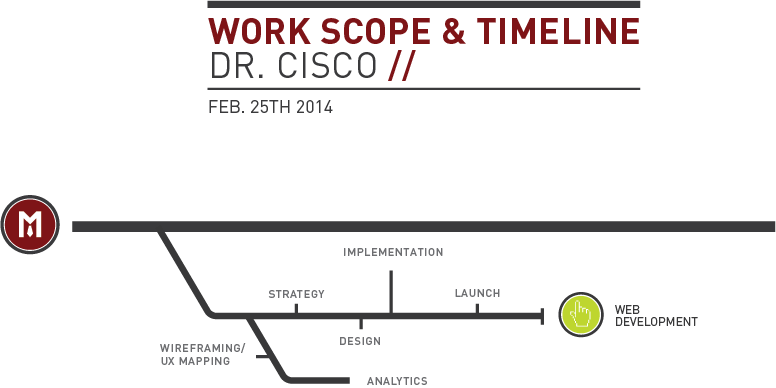
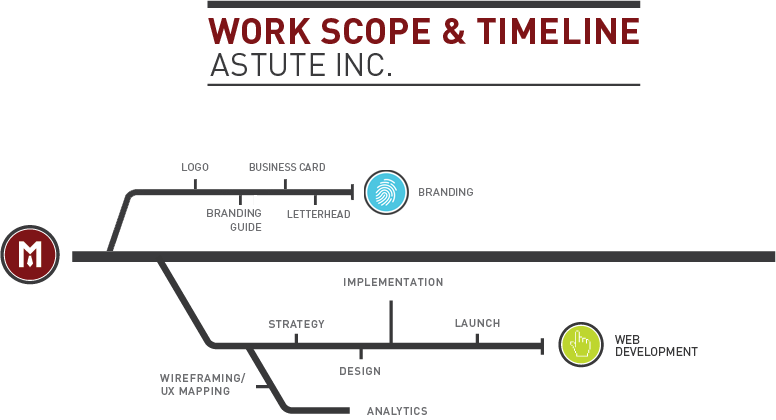
Added Cover Page

diff --git a/ProposalGen2.0/style.css b/ProposalGen2.0/style.css
@@ -94,6 +94,10 @@ thead {
 	font-size:22px;
 }
 
+tr td:last-of-type {
+	text-align: right;
+}
+
 td {
 	padding:10px;
 	font-size:14px;
@@ -300,7 +304,7 @@ nav ul li {
 }
 
 #section-two-cover {
-	background-color:#0887d7;
+	background-color:#fff;
 }
 
 #section-two-cover h1 {

diff --git a/ProposalGen2.0/index.php b/ProposalGen2.0/index.php
@@ -9,53 +9,55 @@
 </head>
 <body>	
 	<section id="cover" class="screen">
-		<?php include 'header.php'; ?>
+		<?php get_header(); ?>
 		<div class="container">
 			<img src="images/cover-img.png">
 		</div>
 	</section>
 	<section id="section-two-cover" class="screen">
-		<?php include 'header.php'; ?>
+		<?php get_header(); ?>
 		<div class="container">
 			<img style="position:relative; z-index:1000;" src="images/section-two-moniker-dark.png">
-			<h1 class="white-treatment">Dr. Cisco<br/> <span>Overview</span></h1>
-			<img class="instanced" src="images/instanciation/steth.png">
+			<h1 class="dark-treatment">Astute <span>Inc.</span></h1>
+			<img class="instanced" src="images/instanciation/q2f-image.png">
 		</div>
 	</section>
 	<section class="screen">
-		<?php include 'header.php'; ?>
+		<?php get_header(); ?>
 		<div class="container text-container">
 			<h2 class="dark-treatment">A. <span>Company</span> Overview</h2>
-			<p>Dr. Cisco is a specialist within the discipline of psychology. Her expertise is centered on helping those with different types of anxiety disorders.  Although established in her field, she is looking to enhance her online presence via a newly created website that is catered towards her target demographic.  In doing so, she will have an online location that allows her past, current, and future clients to learn about and interact with her service offerings.</p></div>
+			<p>Astute Inc. is focused on creating technologically savvy devices within the healthcare industry.  With a rapidly expanding and aging global population, they are looking to make an impact with instruments commonly used by their target demographic.  Astute’s overall objective is to create patient monitoring solutions that not only improve patient outcomes, but also lower the cost of providing healthcare.</p>
+			<p>The research and development team of Astute has put together a suite of offerings that includes physical monitoring devices, cellular services, cloud solutions, and data reporting.  Their flagship product, the Astute Health Hub, integrates these offerings to provide a robust patient monitoring solution.  The device is relatively affordable and eliminates the high installation costs that come with similar products.  Astute Inc. continuously pushes the envelope for the integration of medical tools and emerging technologies.</p>
+		</div>
 		</section>
 		<section class="screen">
-			<?php include 'header.php'; ?>
+			<?php get_header(); ?>
 			<div class="container text-container">
-				<h2 class="dark-treatment">B. Our <span>Offer</span> to Dr Cisco</h2>
-				<p>As a Go-To-Market team, Business on Market St. (BMS) is positioned to assist Dr. Cisco with her ongoing growth requirements. After due diligence is completed, collaboration between both parties will result in the creation of a customized website with industry relevant information and messaging.</p>
+				<h2 class="dark-treatment">B. Our <span>Offer</span> to Astute Inc</h2>
+				<p>As a Go-To-Market team, Business on Market St. (BMS) is positioned to assist Astute with its ongoing growth requirements. After due diligence is completed, collaboration between both parties will result in the creation of a modernized brand. In addition, BMS will develop a customized 6 page website containing professionally written, marketing centric content.</p>
 				<p style="text-transform: uppercase;"><b>BMS Proposes to supply the following:</b></p>
 				<ul>
-					<li>Exercise due diligence to understand the market environment, competition, and growth goals of Dr. Cisco.</li>
-					<li>After the research is completed, BMS will create a modern website with a look and feel that resonates with Dr. Cisco’s target demographic.</li>
-					<li>As the new web asset is developed, BMS will pay special attention to generally increase the effectiveness and reach of her online presence.</li>
+					<li>Exercise due diligence to understand the market environment, competition, and growth goals of Astute.</li>
+					<li>When the research is completed, BMS will create a modern brand with a look and feel that resonates with Astute’s target demographic.</li>
+					<li>After the brand is fully developed, BMS will begin developing a web solution that generally increases the effectiveness of their online presence and messaging.</li>
 				</ul>
 			</div>
 		</section>
 		<section class="screen">
-			<?php include 'header.php'; ?>
+			<?php get_header(); ?>
 			<div class="container text-container">
 				<h2 class="dark-treatment">C. Desired <span>Outcome</span></h2>
-				<p>By Contracting BMS, Dr. Cisco is positioned to gain access to a team of 10+ multidisciplinary marketing professionals without the burden of training and housing new staff. By producing all the requested work under one roof, Dr. Cisco would be able to improve its offerings from a financial, quality, and efficiency standpoint.</p>
+				<p>By Contracting BMS, Astute is positioned to gain access to a team of 10+ multidisciplinary marketing professionals without the burden of training and housing new staff. By producing all the requested work under one roof, Astute would be able to improve its offerings from a financial, quality, and efficiency standpoint.</p>
 				<p style="text-transform: uppercase;"><b>BMS Anticipates the following:</b></p>
 				<ul>
-					<li>Enhance the brand equity and interactivity of Dr. Cisco by streamlining her online infrastructure.</li>
-					<li>Expedite the continued growth of Dr. Cisco's business through the minimization of extraneous costs and strategic cultivation of useful assets.</li>
+					<li>Enhance the brand equity and interactivity of Astute by streamlining their online infrastructure.</li>
+					<li>Expedite the continued growth of Astute through the minimization of extraneous costs and strategic cultivation of useful assets.</li>
 					<li>Development of a longstanding business relationship on the basis of active cooperation and marked market improvement.</li>
 				</ul>
 			</div>
 		</section>
 		<section id="section-three-cover" class="screen">
-			<?php include 'header.php'; ?>
+			<?php get_header(); ?>
 			<div class="container">
 				<img style="position:relative; z-index:1000;" src="images/section-three-moniker-dark.png">
 				<h1 class="dark-treatment"><span>Product</span> & Service<br/> Offerings</h1>
@@ -63,69 +65,68 @@
 			</div>
 		</section>
 		<section id="subway-map" class="screen square-treatment">
-			<?php include 'header.php'; ?>
+			<?php get_header(); ?>
 			<img src="images/instanciation/Subway_Map_CISCO.png">
 			<div class="container" style="text-align:left;">
-				<p style="padding-left:140px; margin-top:50px;">
-					<b>Milestones</b>
-				</p>
-				<ul>
-					<li>Week 1 - Theme Selection Completed</li>
-					<li>Week 2 - Content Delivery by Dr. Cisco</li>
-					<li>Week 3 - Edited Content Approval</li>
-					<li>Week 4 - Initial Comp Delivered</li>
-					<li>Week 5 - Launch</li>
-				</ul>
+		
 			</div>
 		</section>
 		<section class="screen">
-			<?php include 'header.php'; ?>
+			<?php get_header(); ?>
 			<div class="container text-container">
-				<h2 class="dark-treatment">Services <span>Rendered</span></h2>
+				<h2 class="dark-treatment">Service <span>Offering</span></h2>
 				<table>
 					<thead>
 						<th>Service</th>
 						<th>Timeframe</th>
-						<th>Subtotal</th>
+						<th style="text-align:right;">Subtotal</th>
 					</thead>
 					<tbody>
 						<tr class="odd-treatment">
 							<td>
-								8 Page Informational Website
+								Branding Package
 								<ul>
-									<li>Home</li>
-									<li>About</li>
-									<li>Services</li>
-									<li>Products</li>
-									<li>FAQ</li>
-									<li>Article Page</li>
-									<li>Contact Us</li>
-									<li>Are you a Doctor?</li>
+									<li>Logo</li>
+									<li>Branding Guide</li>
+									<li>Letterhead</li>
+									<li>Business Card Templates</li>
 								</ul>
 							</td>
 							<td>1 Month</td>
-							<td>$3,500.00 <span style="color:#7e1417;">(*Dr Cisco Provides Content)</span></td>
+							<td>$5,000.00</td>
 						</tr>
 						<tr class="odd-treatment">
 							<td>
-								Doctor Directory Updates / Corrections
+								6 Page Customized Informational Website
+								<ul>
+									<li>Home</li>
+									<li>About</li>
+									<li>Product</li>
+									<li>Blog Summary</li>
+									<li>Blog Detail</li>
+									<li>Contact Us</li>
+								</ul>
 							</td>
-							<td>Monthly</td>
-							<td>$250.00</td>
+							<td>2 Months</td>
+							<td>$10,000.00</td>
+						</tr>
+						<tr>
+							<td>Copywriting</td>
+							<td>1 Month</td>
+							<td>$375.00 Per Page / $2,250.00 Total</td>
 						</tr>
 						<tr>
 							<td>
 							</td>
 							<td></td>
-							<td><b style="color:#7e1417;">Total: $3,500.00 + $250.00 / Month</b></td>
+							<td><b style="color:#7e1417;">Total: $17,250.00</b></td>
 						</tr>
 					</tbody>
 				</table>
-				<p style="font-size: 14px;">*Besides the framework and general look and feel of a website, all webpages contain a mixture of text and images.  In order to create a website with the proper messaging, the content (text and images) must be delivered to the web developer.  After selecting the best theme suited for the website project, the developer typically will place “dummy” text and images until they are provided with the chosen web copy and stock photography.  This is what is meant by the idea that all website content must be provided by Dr. Cisco.  Essentially, BMS requires the literal text information and selected images to be place within the theme before launching the website.</p>
-			</div>
+				</div>
 		</section>
 		<section class="screen">
-			<?php include 'header.php'; ?>
+			<?php get_header(); ?>
 			<div class="container text-container">
 				<h2 class="dark-treatment">Additional Services</h2>
 				<p style="text-align:center;">
@@ -147,7 +148,7 @@
 		include 'business-development.php'; 
 		?>
 		<section id="section-four-cover" class="screen">
-			<?php include 'header.php'; ?>
+			<?php get_header(); ?>
 			<div class="container">
 				<img src="images/section-four-moniker-light.png">
 				<h1 class="white-treatment">Work <span>Samples</span></h1>
@@ -155,7 +156,7 @@
 			</div>
 		</section>
 		<section class="screen work-sample">
-			<?php include 'header.php'; ?>
+			<?php get_header(); ?>
 			<div class="container">
 				<img src="images/instanciation/BB1.png">
 				<img src="images/instanciation/BB2.png">
@@ -173,7 +174,7 @@
 			</div>
 		</section>
 		<section class="screen work-sample">
-			<?php include 'header.php'; ?>
+			<?php get_header(); ?>
 			<div class="container">
 				<img src="images/instanciation/CEG1.png">
 				<img src="images/instanciation/CEG2.png">
@@ -190,7 +191,7 @@
 			</div>
 		</section>
 		<section class="screen work-sample">
-			<?php include 'header.php'; ?>
+			<?php get_header(); ?>
 			<div class="container">
 				<img src="images/instanciation/V1.png">
 				<img src="images/instanciation/V2.png">
@@ -208,7 +209,7 @@
 			</div>
 		</section>
 		<section id="section-five-cover" class="screen">
-			<?php include 'header.php'; ?>
+			<?php get_header(); ?>
 			<div class="container">
 				<img src="images/section-five-moniker-dark.png">
 				<h1 class="dark-treatment"><span>Get</span> to Know your <span>Team</span></h1>
@@ -216,7 +217,7 @@
 			</div>
 		</section>
 		<section class="screen">
-			<?php include 'header.php'; ?>
+			<?php get_header(); ?>
 			<div class="container">
 				<div class="employee">
 					<img src="images/bob.png">
@@ -242,7 +243,7 @@
 			</div>
 		</section>
 		<section class="screen">
-			<?php include 'header.php'; ?>
+			<?php get_header(); ?>
 			<div class="container">
 				<div class="employee">
 					<img src="images/alvaro.png">
@@ -268,7 +269,7 @@
 			</div>
 		</section>
 		<section class="screen">
-			<?php include 'header.php'; ?>
+			<?php get_header(); ?>
 			<div class="container">
 				<div class="employee">
 					<img src="images/dan.png">
@@ -291,6 +292,12 @@
 						<p>While growing up playing baseball in the streets of his cul-de-sac, the coming of technology seemed as extraneous to Paul, as the fact that technology would end up becoming a primary influence within his life. That is until his family got their first computer. Then all bets were off and anything was possible. With the world at his fingertips, Paul recognizes his interest and endless opportunity within the complex network of computer technology. Fast-forwarding many years, Mr. McMahon continued to pursue his interest in computer technology earning a degree in Cognitive Sciences at the University of California at San Diego. As a junior web developer at BMS, Mr. McMahon concentrates on providing a unique human experience through seamless code and website creation from scratch. Paul's greatest pleasure is the pursuit of something better. Constantly improving his abilities, he works to produce the highest level of invention possible on anything that crosses his screen. That is one thing that will never change.</p>
 					</div>
 				</div>
+			</div>
+		</section>
+		<section class="screen">
+			<?php get_header(); ?>
+			<div class="container" style="text-align: center;">
+				<img src="images/BMS_contact.png">
 			</div>
 		</section>
 	</body>

diff --git a/ProposalGen2.0/marketing.php b/ProposalGen2.0/marketing.php
@@ -1,5 +1,5 @@
 <section id="marketing" class="screen discipline white">
-	<?php include 'header.php'; ?>
+	<?php get_header(); ?>
 		<div class="sidebar-wrap">
 		<img src="images/sidebar.png" class="sidebar">
 	</div>
@@ -51,7 +51,7 @@
 	</div>
 </section>
 <section id="marketing" class="screen discipline white">
-	<?php include 'header.php'; ?>
+	<?php get_header(); ?>
 		<div class="sidebar-wrap">
 		<img src="images/sidebar.png" class="sidebar">
 	</div>

diff --git a/ProposalGen2.0/business-development.php b/ProposalGen2.0/business-development.php
@@ -1,5 +1,5 @@
 <section id="business-development" class="screen discipline white">
-	<?php include 'header.php'; ?>
+	<?php get_header(); ?>
 		<div class="sidebar-wrap">
 		<img src="images/sidebar.png" class="sidebar">
 	</div>

diff --git a/ProposalGen2.0/research-and-development.php b/ProposalGen2.0/research-and-development.php
@@ -1,5 +1,5 @@
 <section id="research-and-planning" class="screen discipline">
-	<?php include 'header.php'; ?>
+	<?php get_header(); ?>
 	<div class="sidebar-wrap">
 		<img src="images/sidebar.png" class="sidebar">
 	</div>

diff --git a/ProposalGen2.0/web-development.php b/ProposalGen2.0/web-development.php
@@ -1,5 +1,5 @@
 <section id="web-development" class="screen discipline">
-	<?php include 'header.php'; ?>
+	<?php get_header(); ?>
 		<div class="sidebar-wrap">
 		<img src="images/sidebar.png" class="sidebar">
 	</div>

diff --git a/ProposalGen2.0/branding.php b/ProposalGen2.0/branding.php
@@ -1,5 +1,5 @@
 <section id="branding" class="screen discipline">
-	<?php include 'header.php'; ?>
+	<?php get_header(); ?>
 		<div class="sidebar-wrap">
 		<img src="images/sidebar.png" class="sidebar">
 	</div>
